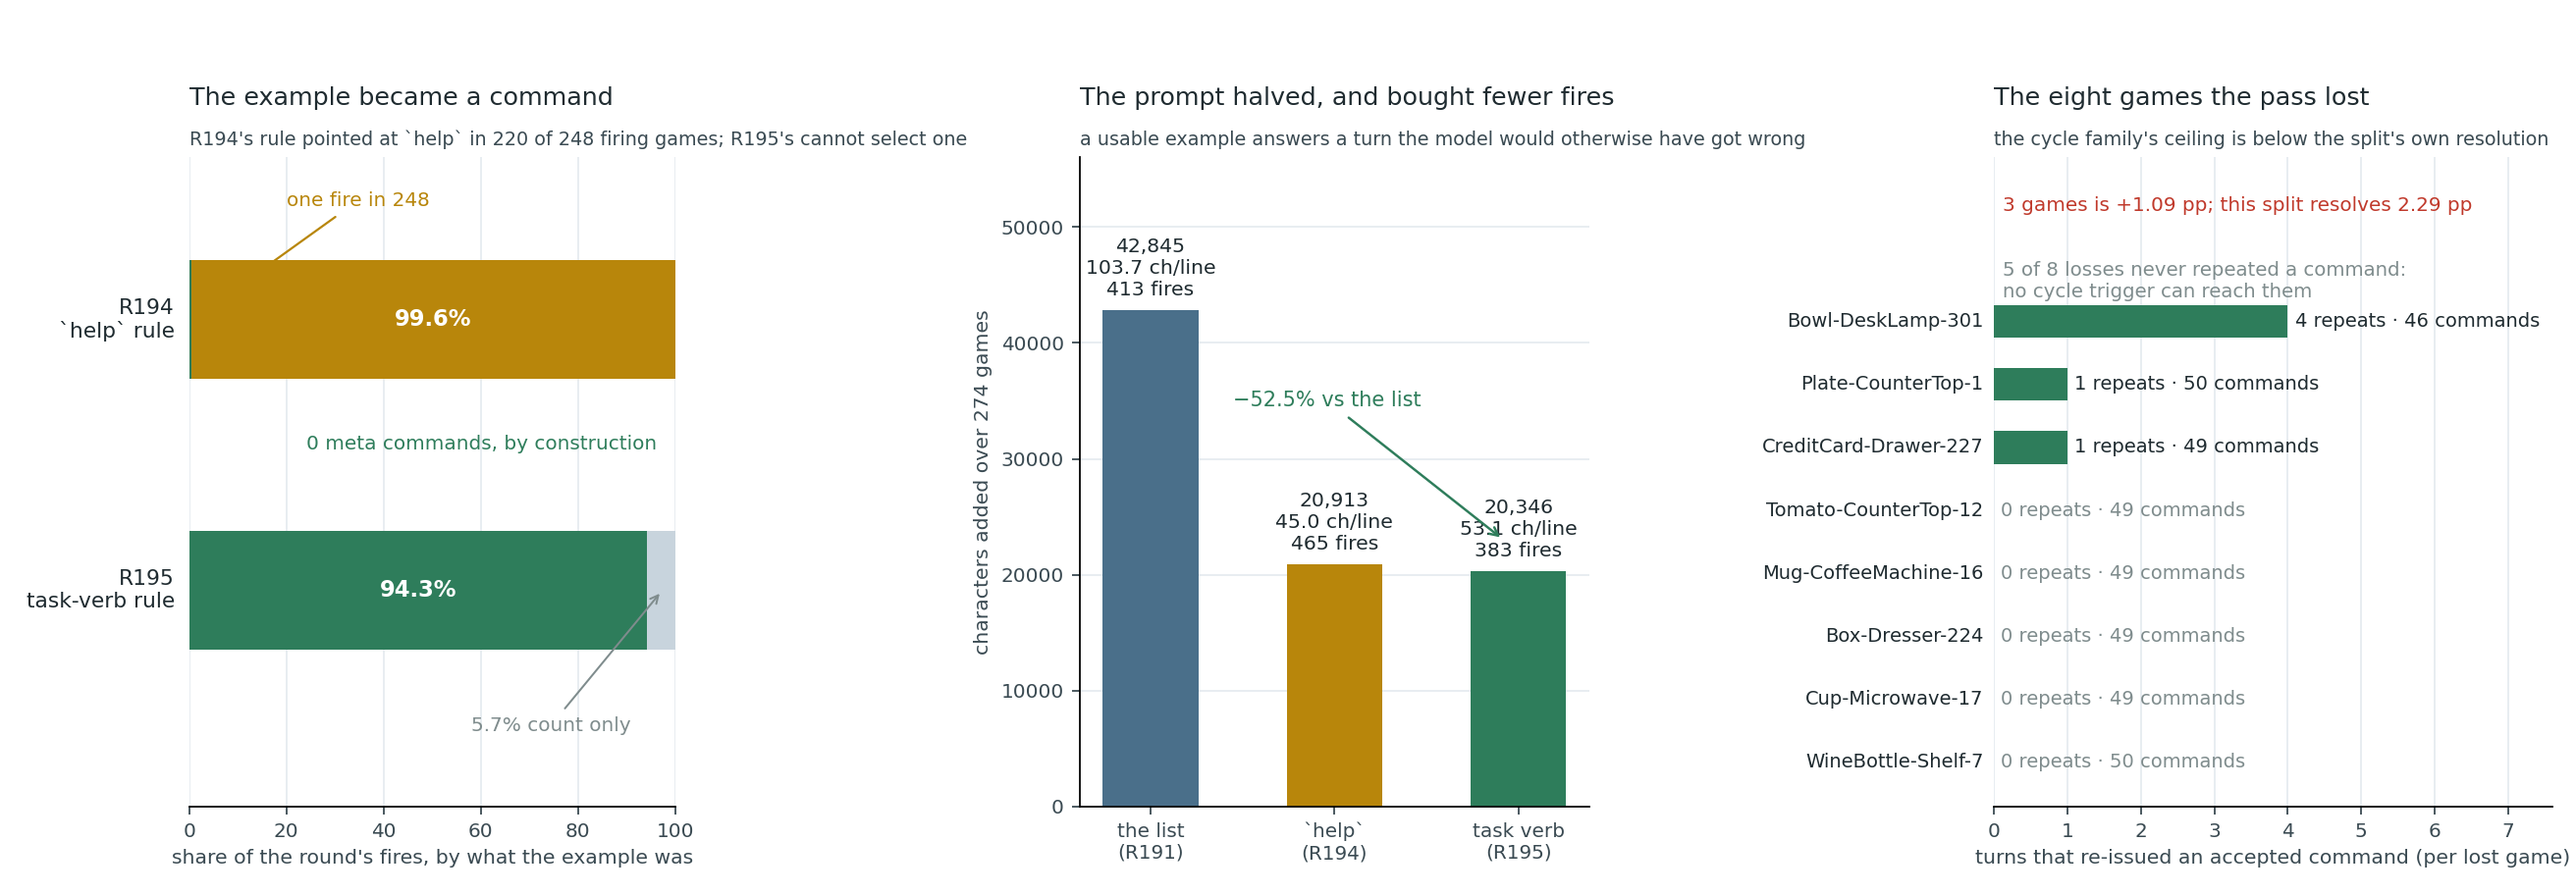
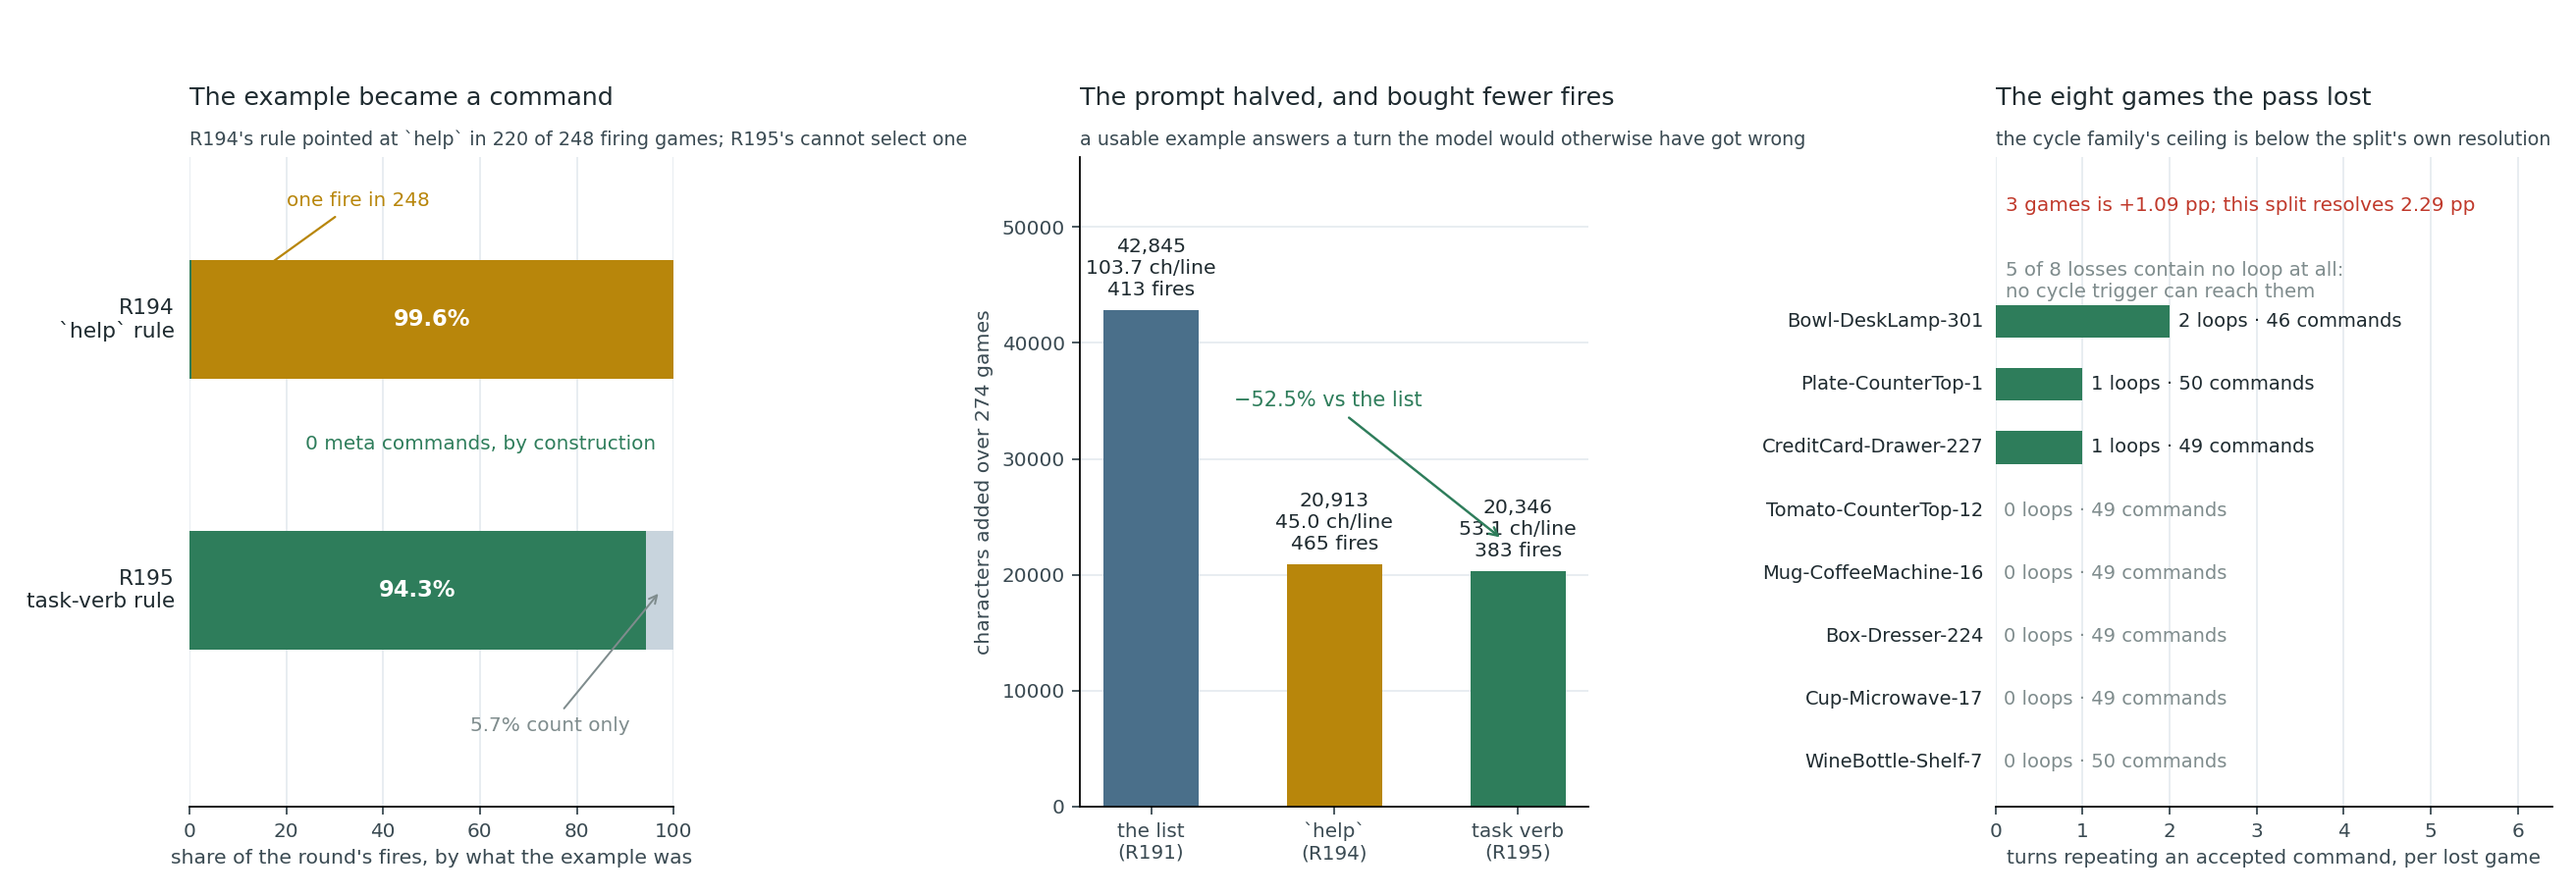
Loops and retries: the reader named one event and counted two
The cycle read's 195 accepted repeats are 177 loops (a repeat of a command the world had
already accepted) and 18 retries (a command refused at a distance and accepted after
walking over, because admissibility is state-dependent). Only a loop is the event a
refusal trigger cannot see, so headroom and the line's price now count loops: three of
eight losses, 6,619 characters over 177 lines.

The ceiling arithmetic is unchanged -- three games is 1.09 pp against a 2.29 pp mde -- and
the acknowledgement that the first version of the docstring claimed the world's verdict on
a command does not depend on when it is asked is recorded with the correction. Progress
235, AUDIT 34.287 and 34.288, roadmap and the figure follow.

diff --git a/PROGRESS.md b/PROGRESS.md
@@ -26482,20 +26482,23 @@ the question R196 was going to be bought to ask: is there a turn on which the mo
 | --- | --- |
 | commands attempted | 3,511 |
 | refusals (= fires, exactly) | 383 |
-| accepted repeats | **195 (5.55%)**, in **146 games (53.3%)** |
-| losses carrying one | **3 of 8 (37.5%)** — 4, 1, 1 repeats |
-| price if rendered | 7,288 characters over 195 lines, 37.4 chars/line |
+| accepted repeats | **195 (5.55%)** — **177 loops** in **136 games (49.6%)** and 18 retries |
+| losses carrying a loop | **3 of 8 (37.5%)** — 2, 1, 1 loops |
+| price if rendered | 6,619 characters over 177 lines, 37.4 chars/line |
 | longest chain | 1 turn repeating two back, 2 three back; one command issued 4 times |
 
-Five of the eight losses never repeat a command at all: they end at **49–50** commands with no loop, no stall and no
-refusal — the model searched and did not find. The other three are worth **at most three games**, which is **1.09 pp** on
+A loop is a repeat of a command the world had **already accepted**; the 18 retries are turns where a command refused at
+a distance was finally accepted after walking over, which is progress rather than a cycle — the admissibility of a command
+is state-dependent, and a reader that called a retry a repetition would be wrong about the one thing it names. Five of the
+eight losses contain no loop at all: they end at **49–50** commands with no repetition, no stall and no refusal — the model
+searched and did not find. The other three are worth **at most three games**, which is **1.09 pp** on
 a split whose resolution is **2.29 pp**. **R196 is therefore not bought**: a treatment whose ceiling is half the split's
 mde cannot produce a falsifiable reading, and buying it would spend ¥1.4 to learn that the interval contains zero by
 construction (AUDIT 34.288). The arithmetic is the deliverable, and it cost ¥0.
 
 ![R195: the example became a command, the prompt halved, and the cycle family's ceiling is below the split's resolution](figures/alfworld-r195.png)
 
-**Gate.** **794 Python tests** (39 new: `test_cycles.py`), **99.1%** of all measured lines and branches, `cycles.py` at
+**Gate.** **798 Python tests** (42 new: `test_cycles.py`), **99.1%** of all measured lines and branches, `cycles.py` at
 **99.1% of lines and 97.7% of branches**, `agent.py` 99.9%/98.5%, `aggregate.py` 99.5%/98.1%, `pnpm audit:repo` and
 `check-workflows` clean, both dispatches `success` including the lane's floor job on each.
 

diff --git a/AUDIT.md b/AUDIT.md
@@ -15695,8 +15695,9 @@ assumption — 413/413 in R191's arm and 479/479 in R193's across 822 games (AUD
 the two rounds since** — and where it fails the honest answer is to stop: a slice in which one refusal went unanswered is
 a slice where one turn's verdict is unknown, and any repeat count over it would be a guess with a decimal point.
 
-**What its first read bought.** 195 accepted repeats in 146 of 274 games, but only **3 of the 8 losses**, and five losses
-with no repeat at all. The mechanism's ceiling is therefore **+1.09 pp** on a split that resolves **2.29 pp**, which
+**What its first read bought.** 195 accepted repeats in 274 games, of which **177 are loops** — a repeat of a command the
+world had already accepted — and 18 are retries, where a command refused at a distance was accepted after walking over.
+Loops appear in 136 games but in only **3 of the 8 losses**, and five losses contain no loop at all. The mechanism's ceiling is therefore **+1.09 pp** on a split that resolves **2.29 pp**, which
 cancelled a ¥1.4 dispatch before it was sent (AUDIT 34.288). The reusable rule: **a mechanism whose ceiling is below the
 split's mde is not an experiment, and the arithmetic that shows it costs nothing.**
 
@@ -15712,8 +15713,8 @@ Every per-game reading in this lane now has to carry `ledger_fires > 0` on that 
 without a fire is a datum about the model's draw and is reported as one.
 
 **A mechanism whose ceiling is below the mde cannot be falsified.** R196 was to be the cycle-aware line: fire when the
-model re-issues a command the world accepted. The ¥0 read (`cycles.py`) found 195 such turns, in 146 games, but in only
-**3 of the 8 losses**, and five of the eight contain **no repeat at all** — 49 to 50 commands that never looped. So the
+model re-issues a command the world accepted. The ¥0 read (`cycles.py`) found **177 loops** in 136 games, but in only
+**3 of the 8 losses**, and five of the eight contain **no loop at all** — 49 to 50 commands that never repeated. So the
 treatment's best possible outcome on this split is +3 games = **1.09 pp**, against a paired mde of **2.29 pp** at 5
 discordant games. Whatever it did, the reading would straddle zero. **Not bought**, and the reason is arithmetic rather
 than taste.

diff --git a/ROADMAP.md b/ROADMAP.md
@@ -9052,9 +9052,10 @@ because the pool's residual is not refusal-bound.
 
 ## R196 (not bought) — the cycle trigger's ceiling is below the split's resolution
 
-The ¥0 read (`cycles.py`, `9276300`) over the same 274 artefacts: **195** accepted repeats in **146** games, but in
-**3 of the 8 losses** — and five of the eight losses contain **no repeat at all**, ending at 49–50 commands without a
-loop. Three games is **+1.09 pp** on a split that resolves **2.29 pp**, so the treatment cannot produce a falsifiable
+The ¥0 read (`cycles.py`, `9276300`) over the same 274 artefacts: **195** accepted repeats, of which **177** are loops
+(a repeat of an already-accepted command) in **136** games and 18 are retries (a command refused at a distance, accepted
+after walking over) — but only **3 of the 8 losses** carry a loop, and five of the eight contain **no loop at all**,
+ending at 49–50 commands without a repetition. Three games is **+1.09 pp** on a split that resolves **2.29 pp**, so the treatment cannot produce a falsifiable
 reading at this n. **Not dispatched**, and the family closes with five readings of two mechanisms and one trigger.
 
 **What this leaves, and it is not a taste.** The unseen split is at **134/134** — its ceiling — and the eight remaining
